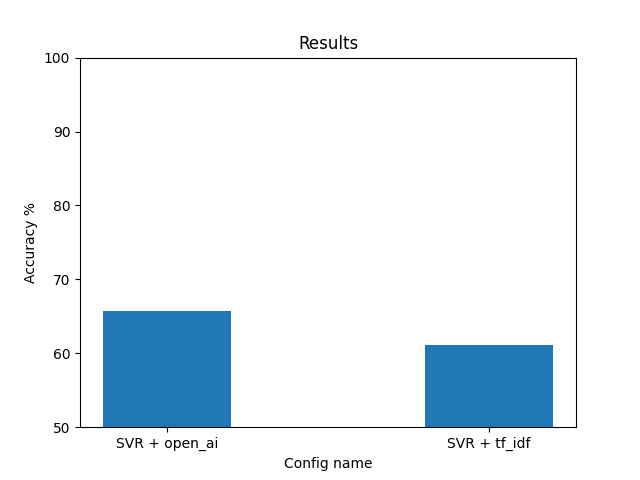
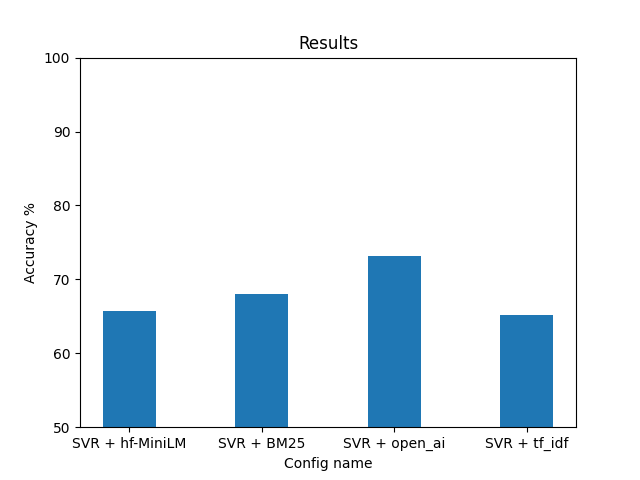
bm25 checks mostly

Changed region(s): [[0.0938, 0.5938, 0.4688, 0.9375], [0.5312, 0.5312, 0.9062, 0.9375], [0.7812, 0.6562, 0.875, 0.7188]]

diff --git a/shared-library/src/optimization_playground_shared/classics/bm_25.py b/shared-library/src/optimization_playground_shared/classics/bm_25.py
@@ -1,0 +1,76 @@
+import math
+from collections import Counter
+import numpy as np
+from sklearn.feature_extraction.text import CountVectorizer
+from tqdm import tqdm
+
+class BM25:
+    def __init__(self, k1=1.5, b=0.75):
+        self.k1 = k1
+        self.b = b
+        self.avg_doc_len = 0
+        self.doc_freqs = []
+        self.idf = {}
+        self.doc_lens = []
+        self.vocab = set()
+
+    def _normalizer_tokens(self, document):
+        vectorizer = CountVectorizer()
+        _ = vectorizer.fit_transform([document])
+        return vectorizer.get_feature_names_out()
+            
+        
+    def train(self, corpus):
+        return self.fit(corpus)
+
+    def fit(self, raw_corpus):
+        corpus = list(raw_corpus)
+        for index, i in enumerate(corpus):
+            assert type(i) == str
+            corpus[index] = self._normalizer_tokens(i)
+
+        self.avg_doc_len = sum(len(doc) for doc in corpus) / len(corpus)
+        self.doc_freqs = []
+        self.doc_lens = [len(doc) for doc in corpus]
+        # doc frequency
+        for doc in corpus:
+            doc_freq = Counter(doc)
+            self.doc_freqs.append(doc_freq)
+            self.vocab.update(doc_freq.keys())
+        # idf         
+        num_docs = len(corpus)
+        df = Counter()
+        for doc_freq in self.doc_freqs:
+            for term in doc_freq:
+                df[term] += 1
+        
+        for term, freq in df.items():
+            self.idf[term] = math.log((num_docs - freq + 0.5) / (freq + 0.5) + 1)
+        return self.transforms(raw_corpus)
+
+    def score_term(self, term, term_freq, doc_len):
+        if term in self.idf:
+            idf = self.idf.get(term, 0)
+            score = idf * (term_freq * (self.k1 + 1)) / (term_freq + self.k1 * (1 - self.b + self.b * doc_len / self.avg_doc_len))
+            return score
+        else:
+            return 0.0
+
+    def transforms(self, document):
+        if type(document) == list:
+            return [self._transform_document(x) for x in document]
+        return [self._transform_document(document)]
+
+    def _transform_document(self, document):
+        document = self._normalizer_tokens(document)
+        doc_freq = Counter(document)
+        doc_len = len(document)
+        vector = np.zeros((len(self.vocab)))
+        for index, term in enumerate(self.vocab):
+            vector[index] = self.score_term(term, doc_freq[term], doc_len)
+        return vector
+
+    def transform_debug(self, document):
+        doc_freq = Counter(document)
+        doc_len = len(document)
+        return {term: self.score_term(term, doc_freq[term], doc_len) for term in self.vocab}

diff --git a/applied/document-ranking/embeddings.py b/applied/document-ranking/embeddings.py
@@ -1,6 +1,13 @@
 from sklearn.feature_extraction.text import TfidfVectorizer
 from optimization_playground_shared.apis.openai_ada_embeddings import OpenAiAdaEmbeddings
-from b25 import BM25
+from optimization_playground_shared.apis.cache_embeddings import CacheEmbeddings
+import requests
+import os
+from dotenv import load_dotenv
+import numpy as np
+from tqdm import tqdm
+load_dotenv()
+import time
 
 class TfIdfWrapper:
     def __init__(self, **kwargs) -> None:
@@ -30,20 +37,45 @@ class OpenAiEmbeddingsWrapper:
         for i in x:
             X.append(self.encoder.get_embedding(i))
         return X
-
-class B25Wrapper:
+    
+class HuggingFaceWrapper:
     def __init__(self) -> None:
+        self.model_id = "sentence-transformers/all-MiniLM-L6-v2"
+        self.hf_token = os.environ["hugginf_face"]
         self.is_trained = False
-        self.encoder = BM25()
-        self.x = None
+        self.cache_handler = CacheEmbeddings()
 
     def train(self, x):
         assert self.is_trained == False
         self.is_trained = True
-        self.encoder.fit(x)
-        self.x = x
         return self.transforms(x)
     
     def transforms(self, x):
-        return self.encoder.transform(x, self.x)
-    
+        X = []
+        for i in tqdm(x):
+            X.append(self._query(self.model_id, i))
+        return X
+
+    def _query(self, model_id, texts):
+        payload = {
+            "model": model_id,
+            "input": texts,
+        }
+        cache = self.cache_handler.load(**payload)
+        if cache is not None:
+            return cache
+        # 20:42
+
+        api_url = f"https://api-inference.huggingface.co/pipeline/feature-extraction/{model_id}"
+        headers = {"Authorization": f"Bearer {self.hf_token}"}
+        response = requests.post(api_url, headers=headers, json={"inputs": texts, "options":{"wait_for_model":True}})
+        embed = response.json()
+        if type(embed) == dict:
+            print(embed)
+        response = np.asarray(embed).astype(np.float32)
+        self.cache_handler.save(
+            payload,
+            embed
+        )
+        time.sleep(1)
+        return response

diff --git a/classical/bm_25.py b/classical/bm_25.py
@@ -1,0 +1,31 @@
+from optimization_playground_shared.classics.bm_25 import BM25
+from sklearn.feature_extraction.text import TfidfVectorizer
+
+if __name__ == "__main__":
+    # Example usage
+    corpus = [
+        "this is a sample and some bagels",
+        "this is another example example",
+        "more text data",
+        "no more today of those bagels",
+    ]
+
+    bm25 = BM25()
+    bm25.fit(list(corpus))
+
+    # Transform documents
+    encoded_corpus = [bm25.transform_debug(doc) for doc in corpus]
+
+    # Transform a new document
+    new_document = "this is the bagel data"
+    new_doc_vector = bm25.transform_debug(new_document)
+
+    print("Encoded Corpus:")
+    for i, doc_vector in enumerate(encoded_corpus):
+        print(f"Document {i} BM25 Vector:")
+        print(doc_vector)
+
+    print("\nNew Document BM25 Vector:")
+    print(bm25.transforms(new_document))
+    print("\nNew Document tf-idf Vector:")
+    print(TfidfVectorizer().fit(corpus).transforms([new_document]).todense())

diff --git a/applied/document-ranking/eval.py b/applied/document-ranking/eval.py
@@ -6,7 +6,8 @@ import matplotlib.pyplot as plt
 import os
 from dataset import get_dataset
 from pipeline import Pipeline
-from embeddings import TfIdfWrapper, OpenAiEmbeddingsWrapper, B25Wrapper
+from embeddings import TfIdfWrapper, OpenAiEmbeddingsWrapper, HuggingFaceWrapper
+from optimization_playground_shared.classics.bm_25 import BM25
 
 def evaluation():
     X, y = get_dataset()
@@ -17,10 +18,11 @@ def evaluation():
     )
 
     model_pipeline_configs = {
-        "bm25": [
-            B25Wrapper(),
-            B25Wrapper(),
-            B25Wrapper(),
+        "hf-MiniLM": [
+            HuggingFaceWrapper(),
+        ],
+        "BM25": [
+            BM25(),
         ],
         "open_ai": [
             OpenAiEmbeddingsWrapper()

diff --git a/applied/document-ranking/dataset.py b/applied/document-ranking/dataset.py
@@ -24,7 +24,7 @@ def get_dataset():
         if text in seen:
             continue
         seen[text] = True
-        if len(text) > 0:
+        if len(text.strip()) > 0:
             X.append(text)
             y.append(i["is_good"])
 

diff --git a/classical/bm_25.md b/classical/bm_25.md
@@ -1,0 +1,4 @@
+## [Okapi BM25](https://en.wikipedia.org/wiki/Okapi_BM25)
+Heard about this in the [Aravind Srinivas interview on Lex Friedman](https://www.youtube.com/watch?v=e-gwvmhyU7A).
+
+
